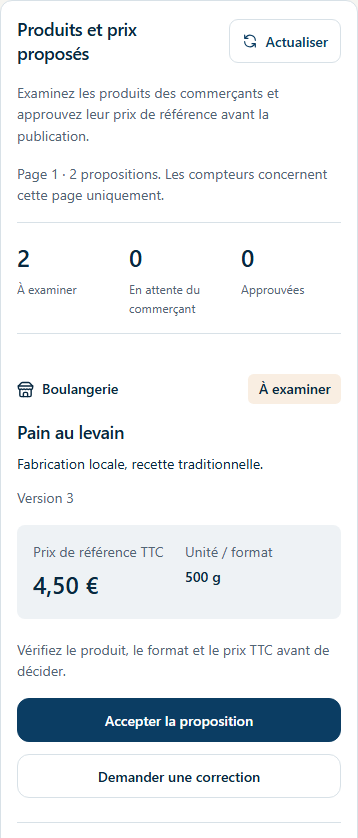
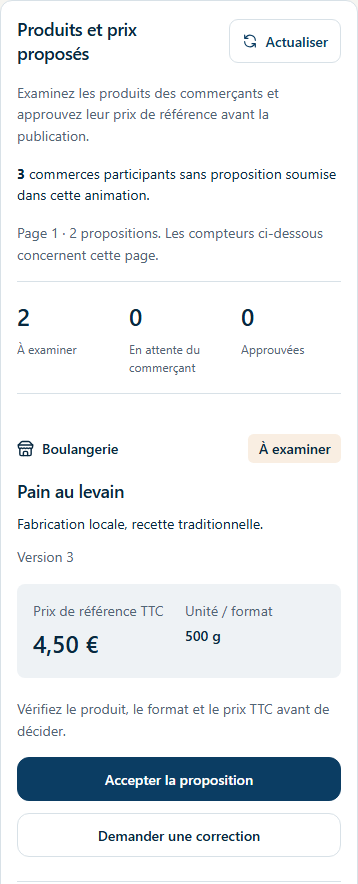
docs(E77): documenter le compteur des propositions manquantes du Juste Prix

diff --git a/docs/specifications/epic-77-juste-prix-local/parcours-regles.md b/docs/specifications/epic-77-juste-prix-local/parcours-regles.md
@@ -135,6 +135,35 @@ dates, le règlement et la dotation. Les contrôles E56/E73 restent applicables.
 Les prix du magasin et les modifications ultérieures de sa fiche ne changent
 jamais la référence publiée.
 
+### Évolution du 26 novembre 2026 — commerces sans proposition soumise
+
+**E77-CA-18a.** Dans **Produits et prix proposés**, l’organisateur voit le nombre
+de commerces participants sans proposition soumise pour toute l’animation.
+Parmi les commerces configurés dont l’invitation courante est acceptée, le
+compteur inclut les commerces sans fiche et ceux dont la proposition est à
+compléter. Les propositions à examiner, approuvées ou à corriger sont déjà
+reçues. Les trois compteurs d’état restent propres à la page affichée.
+**Actualiser** relit le compteur avec la liste, en conservant la partie et le
+focus. Zéro est affiché lorsque le serveur le confirme.
+
+Le backend ajoute l’entier `commercants_sans_proposition` à la réponse privée
+`GET /protected/animation-locale/animations/{animation_id}/juste-prix/produits`,
+sous le droit de consultation existant. Le total est indépendant du curseur,
+de la taille de page et du filtre de statut. Un portail mis à jour qui reçoit
+encore l’ancienne réponse affiche la liste seule. Le calcul en base s’appuie
+sur les invitations courantes et les statuts existants. Les transitions de
+proposition et d’approbation, les données stockées et la configuration
+d’exploitation ne nécessitent aucune adaptation. Le générateur de démonstration
+fournit déjà les données utilisées par le calcul.
+
+Les tests couvrent l’absence de fiche, le brouillon, les autres statuts, les
+commerces hors périmètre et la consultation sur plusieurs pages. La recette
+Animation couvre le total, son actualisation, les réponses d’une ancienne API
+et le rendu mobile et bureau. [Preuves de vérification](verification-livraison.md#vérification-du-compteur-e77-ca-18a-le-26-novembre-2026).
+
+Le guide Animation explique le compteur. Le guide Commerçant continue de décrire
+les gestes de préparation et d’envoi dans Pro. [Guide Animation](../../produit/formation/animation/guide-quotidien-animation.md).
+
 ## Participer dans Live — CA-06 à 10 et 14
 
 La fiche publique annonce avant inscription : produit à deviner, seuil,

diff --git a/docs/produit/formation/animation/guide-quotidien-animation.md b/docs/produit/formation/animation/guide-quotidien-animation.md
@@ -160,7 +160,7 @@ Dans **Étape de préparation**, relisez les lieux, le parcours et les contenus 
 
 Attendez que les commerces aient proposé leurs produits, puis vérifiez-les dans le brouillon.
 
-1. Ouvrez **Produits et prix proposés** et repérez les propositions **À examiner**.
+1. Ouvrez **Produits et prix proposés**. Le total des commerces sans proposition soumise inclut les commerces qui ont accepté l’invitation et doivent encore envoyer leur produit. Repérez ensuite les propositions **À examiner**.
 2. Vérifiez le commerce, le produit, sa description, son format ou son unité et le prix toutes taxes comprises (**prix TTC**).
 3. Choisissez **Accepter la proposition** si elle est correcte. Attendez la confirmation et le repère **Approuvé** avant de passer à la suivante.
 
@@ -168,7 +168,7 @@ Attendez que les commerces aient proposé leurs produits, puis vérifiez-les dan
 
 ### Si une proposition doit changer
 
-Choisissez **Demander une correction**, donnez le motif et ajoutez des précisions. Avec **Autre motif**, le texte est obligatoire. Le commerçant pourra corriger sa proposition puis la renvoyer. Les états **À compléter** et **À corriger** signalent une action attendue du commerce. Actualisez la rubrique pour vérifier les dernières réponses. Les compteurs sont ceux de la page affichée.
+Choisissez **Demander une correction**, donnez le motif et ajoutez des précisions. Avec **Autre motif**, le texte est obligatoire. Le commerçant pourra corriger sa proposition puis la renvoyer. Les états **À compléter** et **À corriger** signalent une action attendue du commerce. Actualisez la rubrique pour vérifier les dernières réponses. Les trois compteurs d’état concernent la page affichée.
 
 Après publication ou avec un accès en consultation seule, vous pouvez relire les propositions. En cas de doute sur une décision envoyée, vérifiez d’abord son état.
 

diff --git a/docs/specifications/epic-77-juste-prix-local/verification-livraison.md b/docs/specifications/epic-77-juste-prix-local/verification-livraison.md
@@ -239,6 +239,26 @@ dotations E73. Réutiliser notamment les suites existantes
 et les tests de registres et contrats des trois frontends. Leur existence ne
 vaut pas exécution ni couverture E77.
 
+## Vérification du compteur E77-CA-18a le 26 novembre 2026
+
+- Backend `862f6af5` avec le compteur local. Les tests isolés de
+  `tests/api/test_juste_prix_contract.py`,
+  `tests/domain/animation_locale/test_juste_prix_dedicated.py` et
+  `tests/application/test_contrats_moteur_t1.py` passent (65 tests).
+  `tests/security/test_juste_prix_postgres.py` passe sur PostgreSQL jetable
+  (12 tests), dont le changement de total après envoi, les pages filtrées et
+  les refus hors commune. Les contrôles d’architecture passent (793 tests).
+- L’agrégat ajoute une lecture scalaire avec les index existants. Sur PostgreSQL
+  18 local, quatre profils de 100 lectures avec variation des autres éditions
+  et de l’historique des invitations donnent 0,408 à 0,946 ms d’exécution SQL
+  et un p95 de 4,85 à 13,98 ms pour l’appel au dépôt. La mesure porte sur le
+  dépôt seul. Le budget HTTP authentifié et la charge mixte restent à mesurer.
+- Animation `c1fef0e` avec le compteur local. `node tests/browser/juste-prix-products.mjs`
+  passe sur Chromium, avec actualisation, navigation entre pages, zéro confirmé,
+  lecture seule et réponse d’une ancienne version. Le PDF du guide est relu,
+  synchronisé et son accès testé à 390 et 1 024 px avec
+  `node tests/browser/animation-guide.mjs --only=aide` sur le build synthétique.
+
 ## Lots de réalisation et livraison
 
 | Lot | Contenu / critères | Dépendances et sortie attendue |

diff --git a/docs/roadmap/en-cours/epic-77-juste-prix-local-backlog.md b/docs/roadmap/en-cours/epic-77-juste-prix-local-backlog.md
@@ -184,6 +184,10 @@ Les décisions du 13 novembre résolvent les quatre arbitrages, sans modifier le
 | E77-CA-19 | Client Live ancien ou requête manipulée | Appeler le jeu, accéder à un autre commerce ou demander le prix de référence | Compatibilité explicite, droits et contrôles serveur ; pas de solution dans un DTO public ni de repli vers les règles d'un autre moteur ; aucune régression des jeux existants |
 | E77-CA-20 | Jeux synthétiques et implémentation future | Exécuter tests domaine, intégration et parcours PC/mobile | Preuves des deux modes, limites/tolérance, seuil, réponse unique, concurrence/reprise, autorisations, confidentialité, tirage, pagination et capacité ; contrôles non exécutés distincts des réussites |
 
+**E77-CA-18a (26 novembre 2026).** L’organisateur peut consulter le nombre de
+commerces participants sans proposition soumise pour toute son animation.
+Voir le [périmètre du compteur](../../specifications/epic-77-juste-prix-local/parcours-regles.md#évolution-du-26-novembre-2026--commerces-sans-proposition-soumise).
+
 ## Impacts à instruire
 
 Le tableau conserve l'analyse initiale du cadrage. Les impacts désormais

diff --git a/docs/produit/formation/animation/illustrations/guide-quotidien/README.md b/docs/produit/formation/animation/illustrations/guide-quotidien/README.md
@@ -760,3 +760,14 @@ node tests/browser/animation-guide.mjs --only=import-suppression --captures-only
 ```
 
 La capture utilisée par le PDF est copiée sans retouche depuis ce dossier. Les deux largeurs ont été relues avant la génération du guide.
+
+## Suivi des produits du Juste Prix Local le 26 novembre 2026
+
+Les captures montrent le total des commerces sans proposition soumise et les
+compteurs de la page. Le scénario utilise trois commerces fictifs qui doivent
+encore envoyer leur produit et deux propositions à examiner. Les captures
+proviennent du composant Animation sur la base `c1fef0e` avec le compteur global,
+à 1 024 et 390 px. [Bureau](juste-prix-produits-1024.png) et [mobile](juste-prix-produits-390.png).
+
+Depuis `localeo-animation`, relancer `node tests/browser/juste-prix-products.mjs --guide-captures`
+pour reproduire ces captures à partir de l’API simulée.
